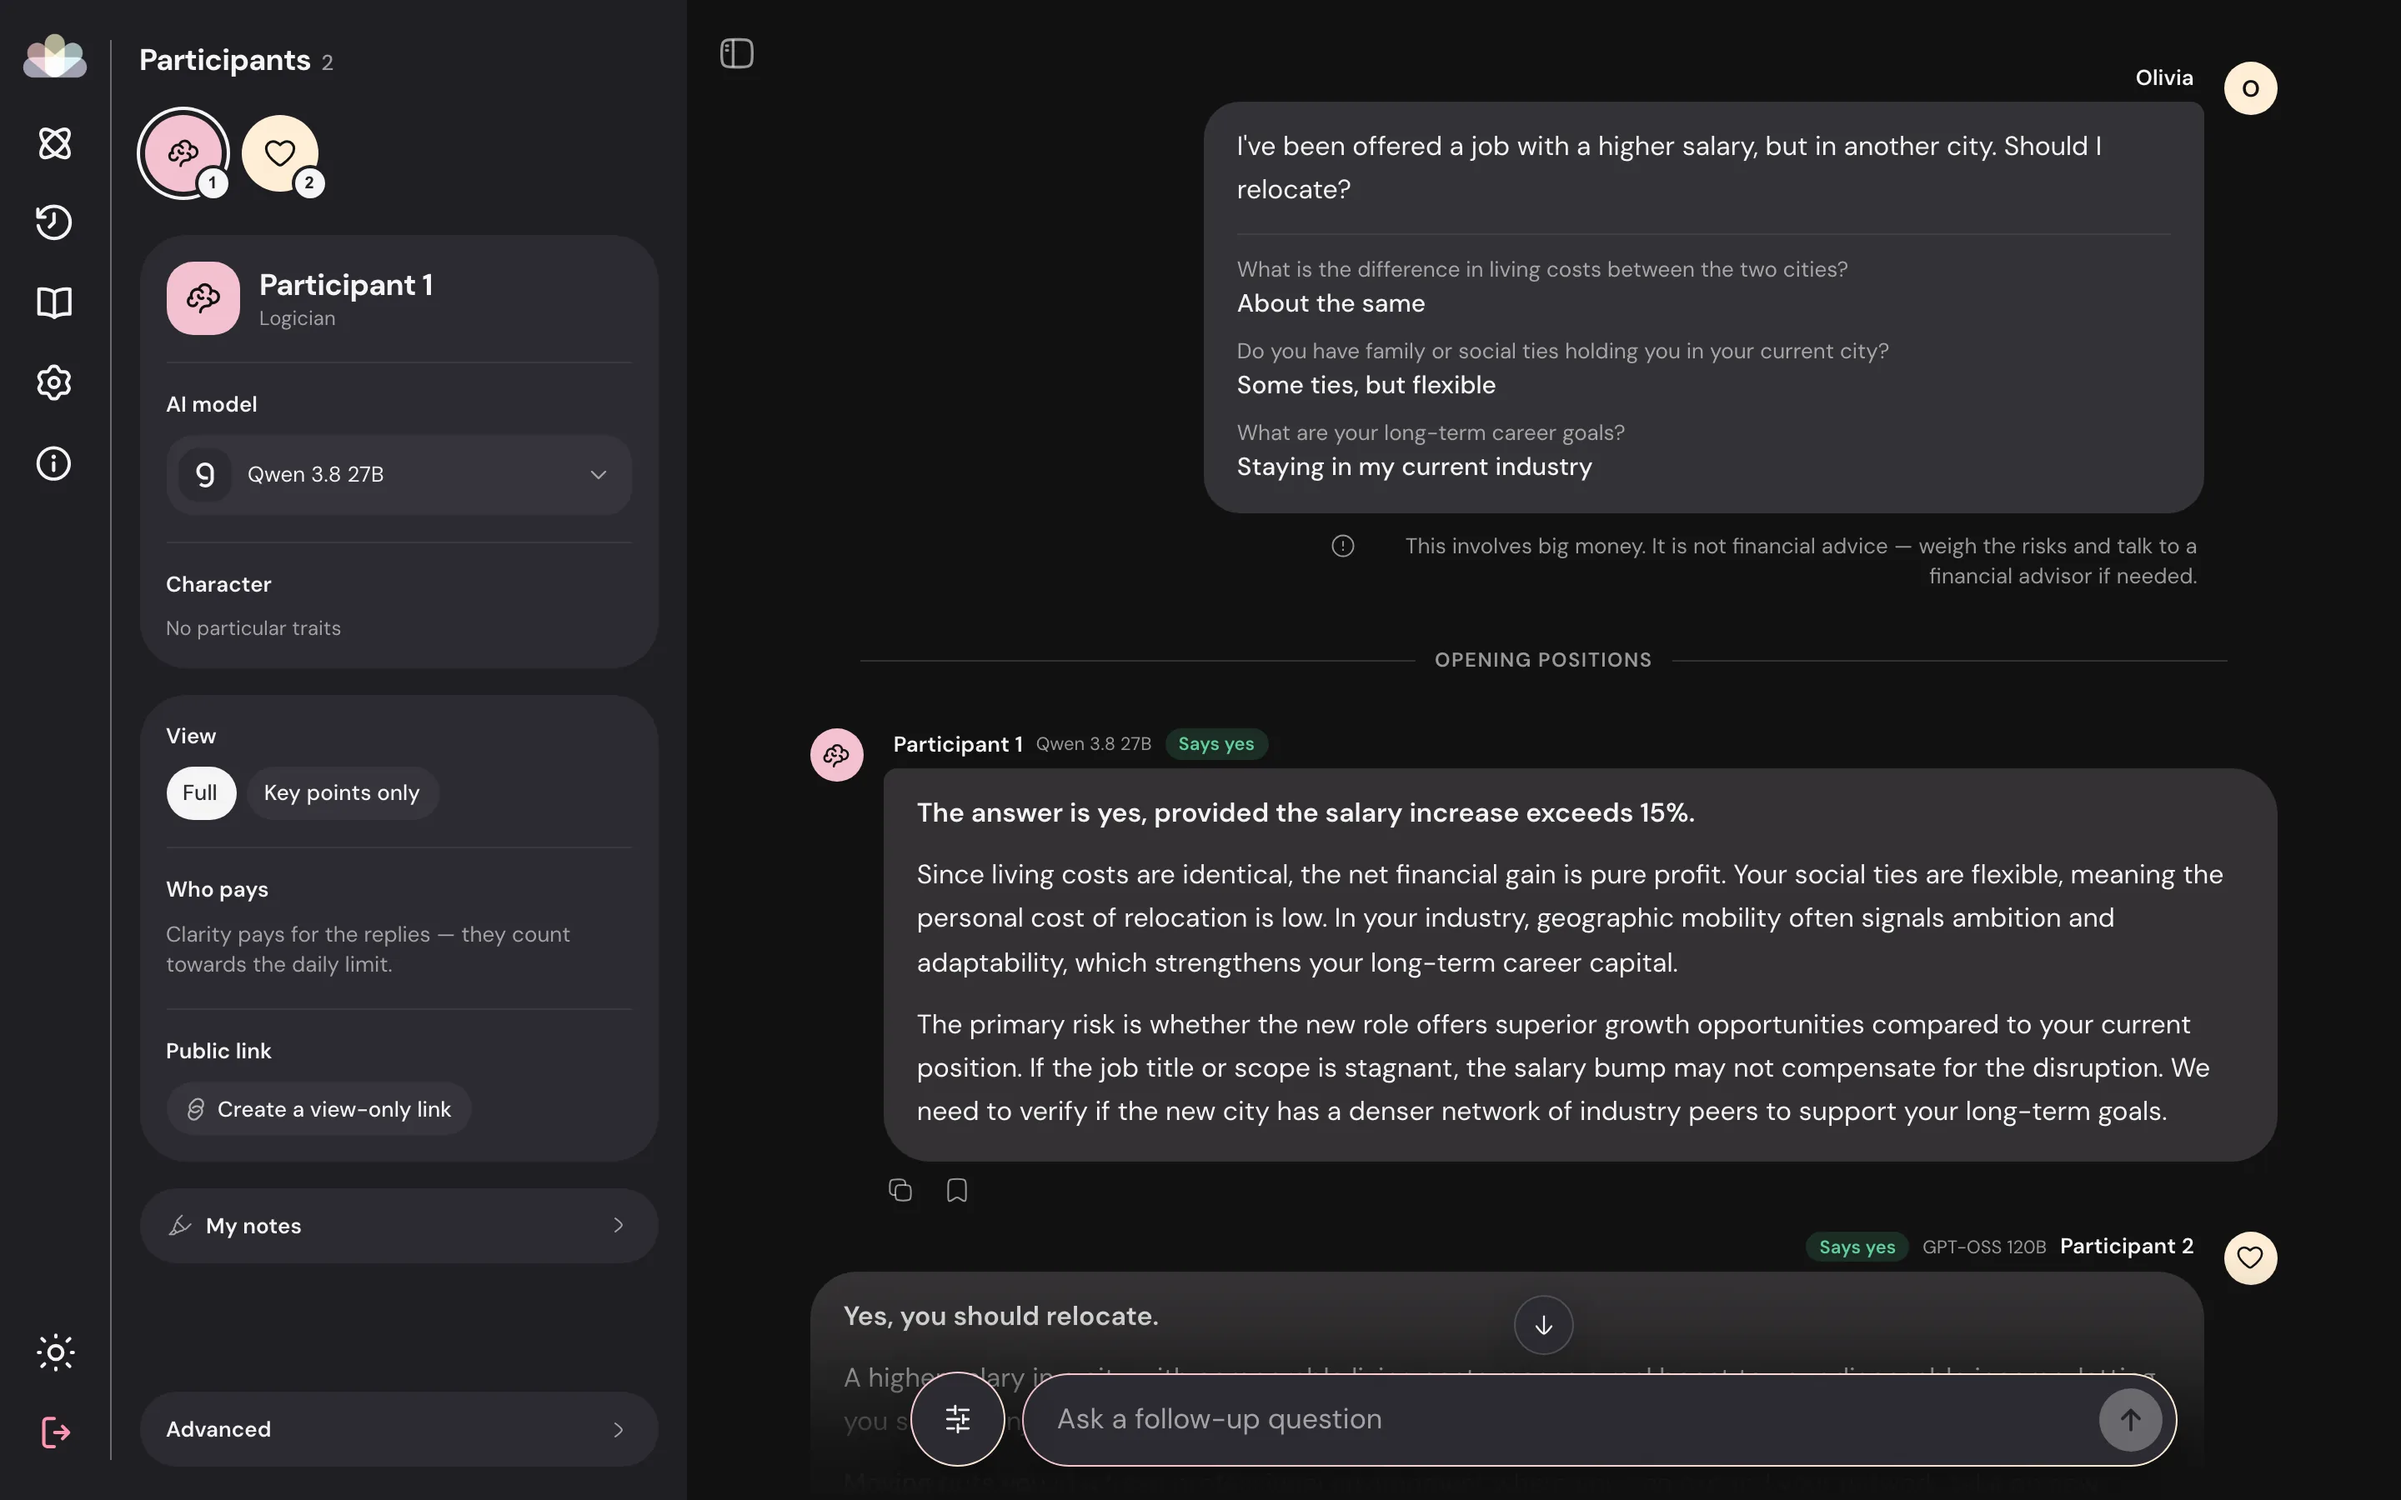
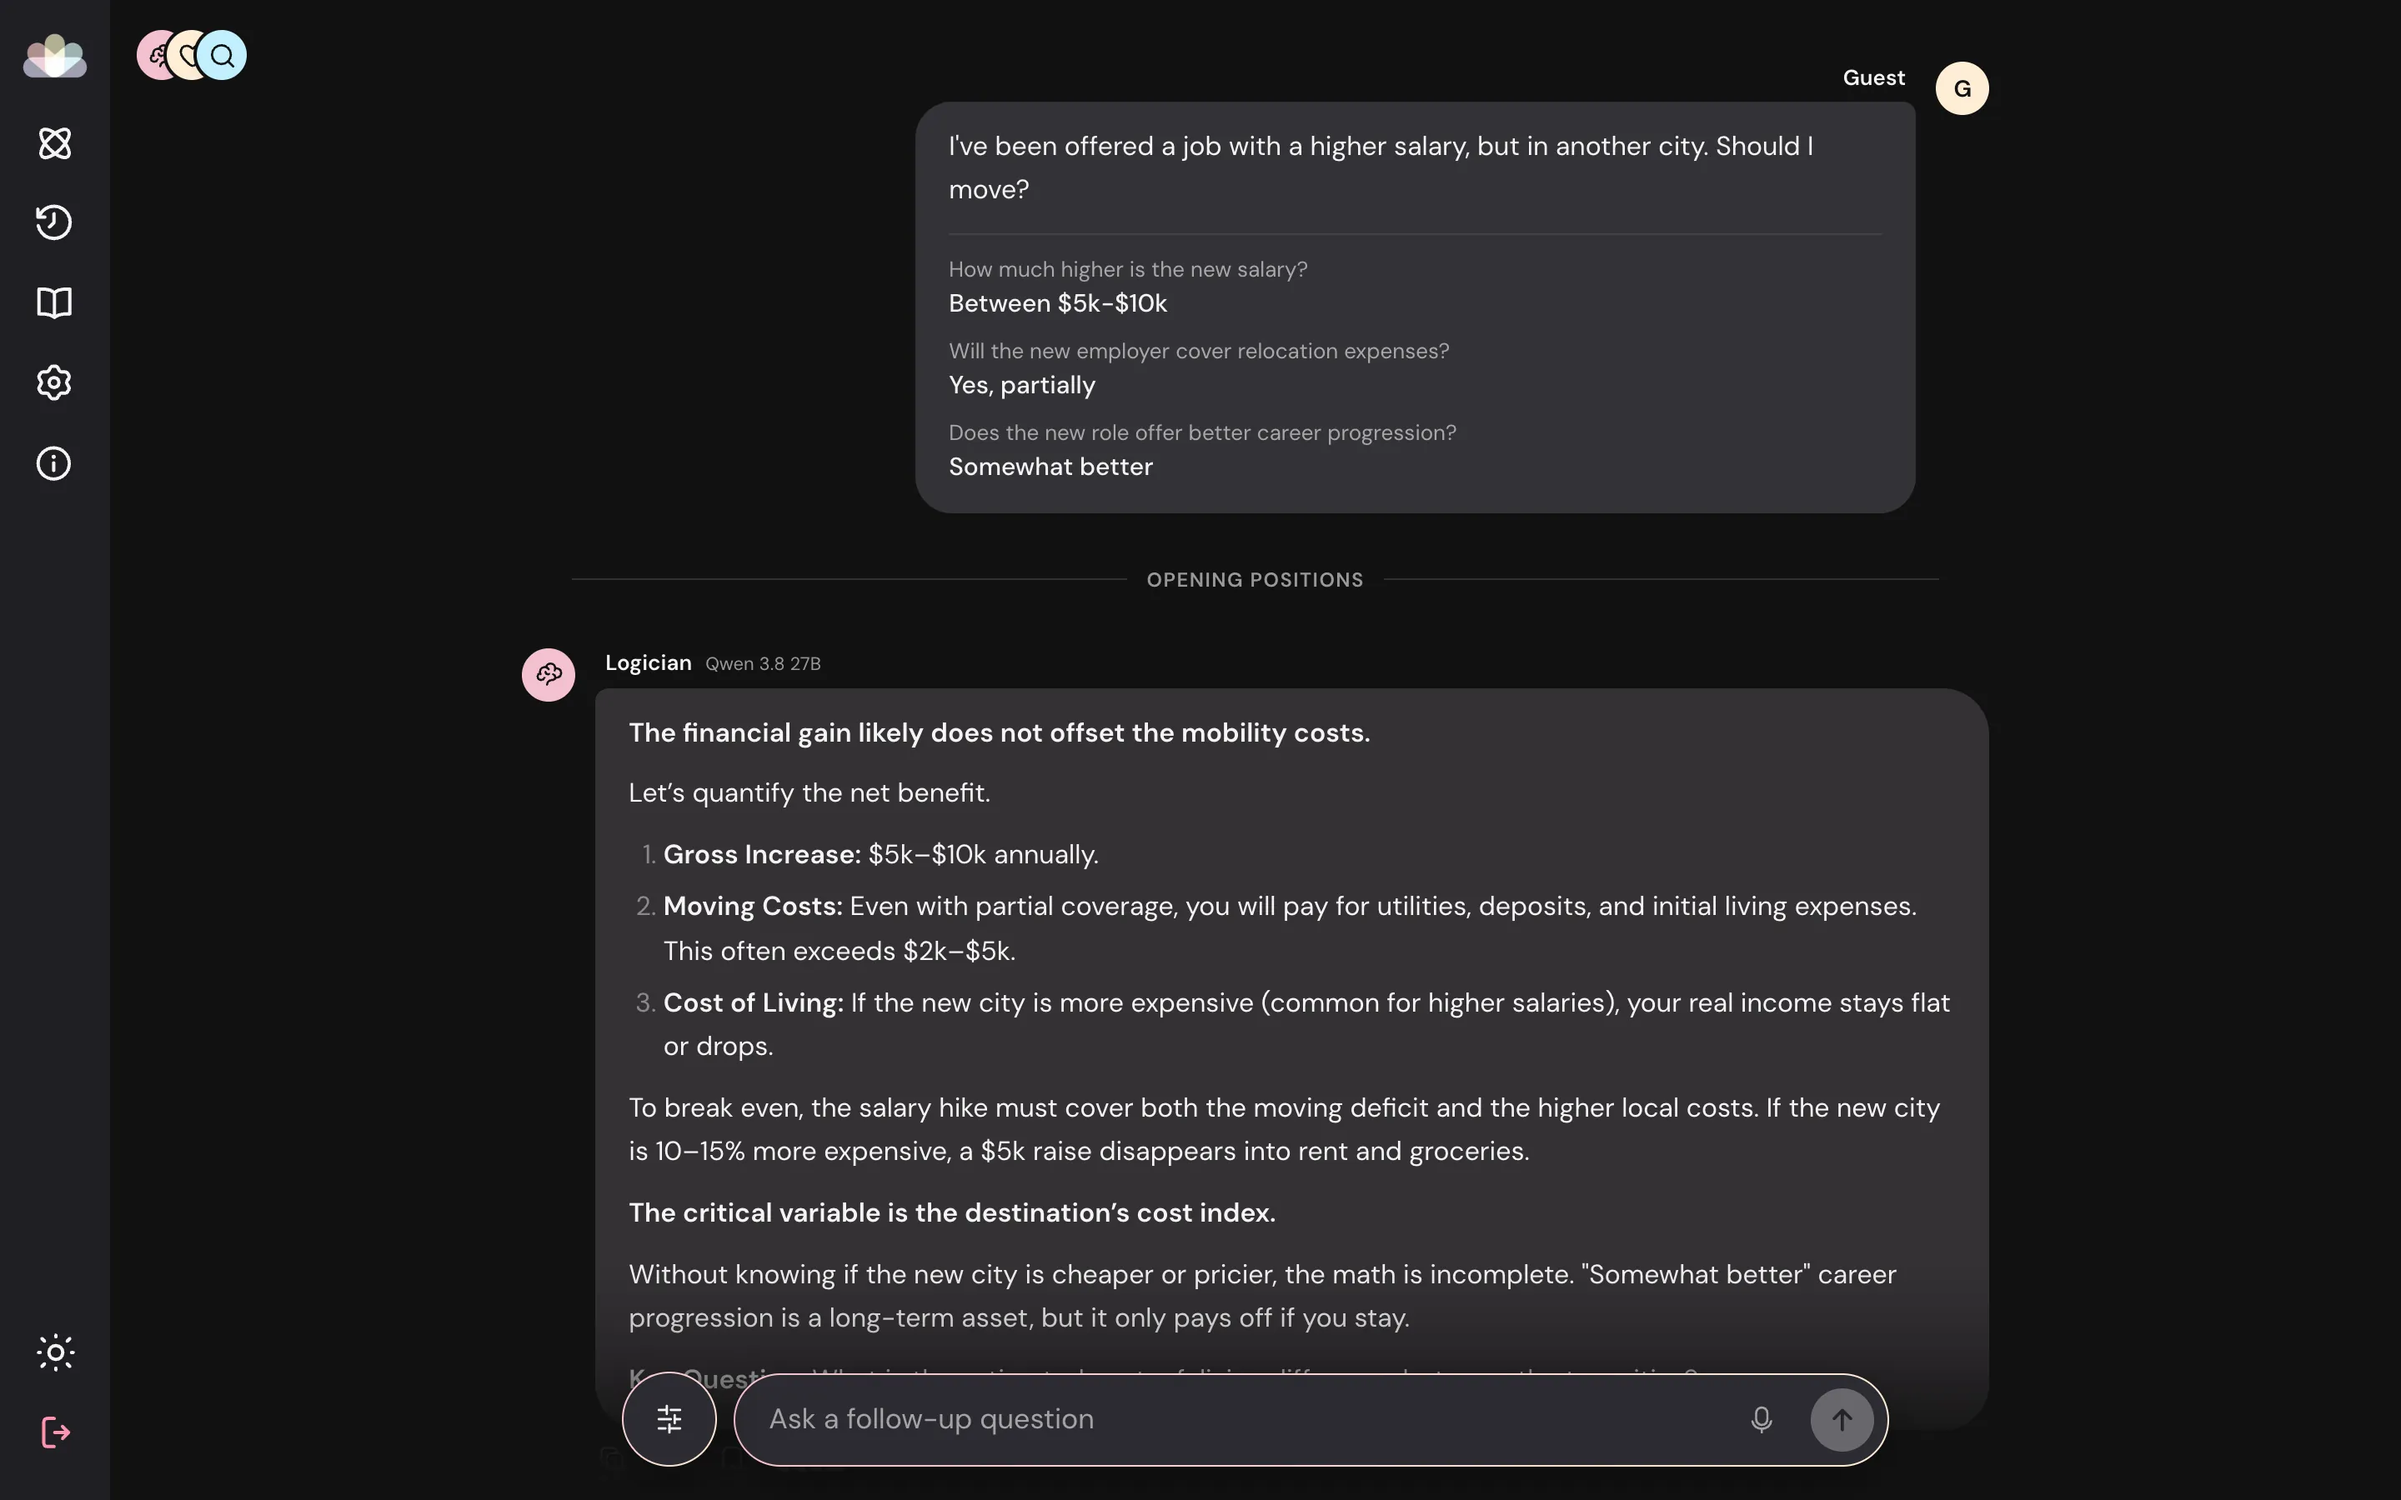
Float the landing navbar and refresh the app screenshots
The landing header is now a floating pill with a gap from the top and
sides instead of a full-width bar. The English CTA reads "Sign up", the
static agreement badge over the hero shot is gone, and the debate, AI
Devil and verdict screenshots are retaken from the current interface in
both themes and both languages.

diff --git a/frontend/src/styles/landing.css b/frontend/src/styles/landing.css
@@ -71,27 +71,34 @@ html:has(.page--landing) {
 }
 
 /* ---------- Шапка ---------- */
-/* три колонки: бічні однакові, тож навігація стоїть рівно по центру екрана */
+/* Літаюча капсула: не на всю ширину, з відступом від країв і верху.
+   Три колонки: бічні однакові, тож навігація стоїть рівно по центру капсули */
 .lp-header {
   position: sticky;
-  top: 0;
+  top: 12px;
   z-index: var(--z-sticky);
   display: grid;
   grid-template-columns: 1fr auto 1fr;
   align-items: center;
   gap: 16px;
-  padding: 14px var(--lp-gutter);
-  transition: background 0.3s, box-shadow 0.3s, backdrop-filter 0.3s;
+  width: min(1080px, calc(100% - 2 * var(--lp-gutter)));
+  margin: 12px auto 0;
+  padding: 8px 8px 8px 18px;
+  border: 1px solid var(--glass-border);
+  border-radius: var(--r-pill);
+  background: color-mix(in srgb, var(--bg) 55%, transparent);
+  backdrop-filter: blur(20px) saturate(1.4);
+  -webkit-backdrop-filter: blur(20px) saturate(1.4);
+  box-shadow: var(--shadow-md);
+  transition: background 0.3s, box-shadow 0.3s;
   animation: fade-in 0.3s ease-out both;
 }
 
+/* під час прокрутки капсула щільніша й вище «піднімається» над сторінкою */
 .lp-header--scrolled {
-  background: color-mix(in srgb, var(--bg) 72%, transparent);
-  backdrop-filter: blur(20px) saturate(1.4);
-  -webkit-backdrop-filter: blur(20px) saturate(1.4);
-  box-shadow: 0 1px 0 var(--line-soft);
+  background: color-mix(in srgb, var(--bg) 78%, transparent);
+  box-shadow: var(--shadow-sm);
 }
-
 
 .lp-header__brand {
   justify-self: start;
@@ -307,66 +314,6 @@ html:has(.page--landing) {
 
 :root[data-theme='dark'] .shot__img--dark {
   display: block;
-}
-
-/* картка згоди, що ледь погойдується над скріном */
-.lp-float {
-  position: absolute;
-  z-index: 2;
-  display: flex;
-  flex-direction: column;
-  gap: 6px;
-  padding: 14px 18px;
-  border-radius: var(--r-lg);
-  background: var(--glass);
-  border: 1px solid var(--glass-border);
-  backdrop-filter: blur(18px);
-  -webkit-backdrop-filter: blur(18px);
-  box-shadow: 0 16px 40px -20px rgba(0, 0, 0, 0.35);
-  font-weight: 600;
-  text-align: left;
-  white-space: nowrap;
-  animation: lp-bob 6s ease-in-out infinite alternate;
-}
-
-.lp-float--consensus {
-  right: 3%;
-  bottom: 12%;
-  min-width: 190px;
-  animation-delay: -2.5s;
-}
-
-.lp-float__label {
-  color: var(--muted);
-  font-size: 0.8125rem;
-  font-weight: 500;
-}
-
-.lp-float__value {
-  font-size: 1.75rem;
-  font-weight: 700;
-  letter-spacing: -0.03em;
-}
-
-@keyframes lp-bob {
-  from { transform: translateY(-6px); }
-  to { transform: translateY(8px); }
-}
-
-.lp-meter {
-  display: block;
-  height: 6px;
-  border-radius: var(--r-pill);
-  background: color-mix(in srgb, var(--text) 10%, transparent);
-  overflow: hidden;
-}
-
-.lp-meter > span {
-  display: block;
-  height: 100%;
-  border-radius: inherit;
-  background: linear-gradient(90deg, var(--pink), var(--peach), var(--sky));
-  transition: width 0.2s linear;
 }
 
 /* ---------- Секції ---------- */
@@ -1217,6 +1164,13 @@ html:has(.page--landing) {
 }
 
 @media (max-width: 639px) {
+  .lp-header {
+    top: 8px;
+    width: calc(100% - 24px);
+    margin-top: 8px;
+    padding: 6px 6px 6px 14px;
+  }
+
   /* вхід лишається: тому, хто повертається, не треба шукати його внизу */
   .lp-header__login {
     padding: 8px 10px;
@@ -1249,17 +1203,6 @@ html:has(.page--landing) {
 
   .lp-stage .lp-frame {
     border-radius: var(--r-md);
-  }
-
-  .lp-float--consensus {
-    right: 4%;
-    bottom: -14%;
-    min-width: 0;
-    padding: 10px 14px;
-  }
-
-  .lp-float__value {
-    font-size: 1.25rem;
   }
 
   .lp-personas {
@@ -1343,7 +1286,6 @@ html:has(.page--landing) {
     transform: none;
   }
 
-  .lp-float,
   .lp-gradient-text {
     animation: none;
   }

diff --git a/frontend/src/copy/en.js b/frontend/src/copy/en.js
@@ -13,7 +13,7 @@ export const en = {
 
   landing: {
     login: 'Sign in',
-    register: 'Create account',
+    register: 'Sign up',
     // коротка назва кнопки для вузької шапки на телефоні
     registerShort: 'Sign up',
     openApp: 'Open Clarity',
@@ -37,7 +37,6 @@ export const en = {
     askHint: 'No sign-up needed — your first discussion is on us.',
     askStarting: 'Gathering the team…',
     heroShot: 'A discussion in Clarity: the question, the moderator’s follow-ups and a participant’s first reply',
-    floatConsensus: 'Participant agreement',
 
 
     howTitle: 'From doubt to decision — in three steps',

diff --git a/frontend/src/components/landing/Hero.jsx b/frontend/src/components/landing/Hero.jsx
@@ -120,14 +120,6 @@ export default function Hero({ onStart, question, onQuestionChange, starting = f
         <div className="lp-frame">
           <Shot name="debate" alt={t.heroShot} eager />
         </div>
-
-        <div className="lp-float lp-float--consensus" aria-hidden="true">
-          <span className="lp-float__label">{t.floatConsensus}</span>
-          <span className="lp-float__value">88%</span>
-          <span className="lp-meter">
-            <span style={{ width: '88%' }} />
-          </span>
-        </div>
       </div>
     </section>
   );

diff --git a/frontend/src/copy/uk.js b/frontend/src/copy/uk.js
@@ -40,7 +40,6 @@ export const uk = {
     askHint: 'Без реєстрації — перша дискусія за наш рахунок.',
     askStarting: 'Збираємо команду…',
     heroShot: 'Дискусія в Clarity: питання, уточнення модератора та перша репліка учасника',
-    floatConsensus: 'Згода учасників',
 
 
     howTitle: 'Від сумнівів до рішення — за три кроки',
